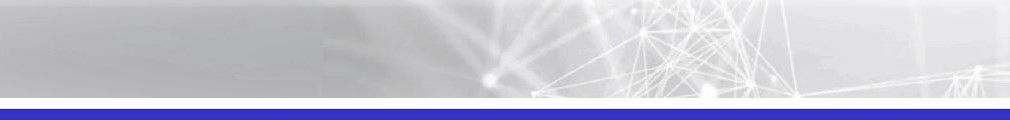
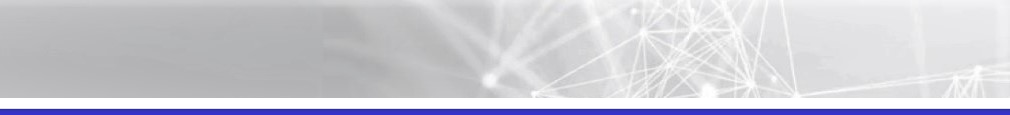
v0.22.12.14

diff --git a/branding/css/custom-stylesheet.css b/branding/css/custom-stylesheet.css
@@ -13,9 +13,9 @@
   position: fixed;
   top: 0px;
   left: 0px;
-  min-height: 100px;
+  min-height: 110px;
   background-image: url("/dvn/assets/img/background/background_ipen.png");
-  background-size: 100% 100px;
+  background-size: 100% 110px;
 }
 
 .navbar-fixed-top {
